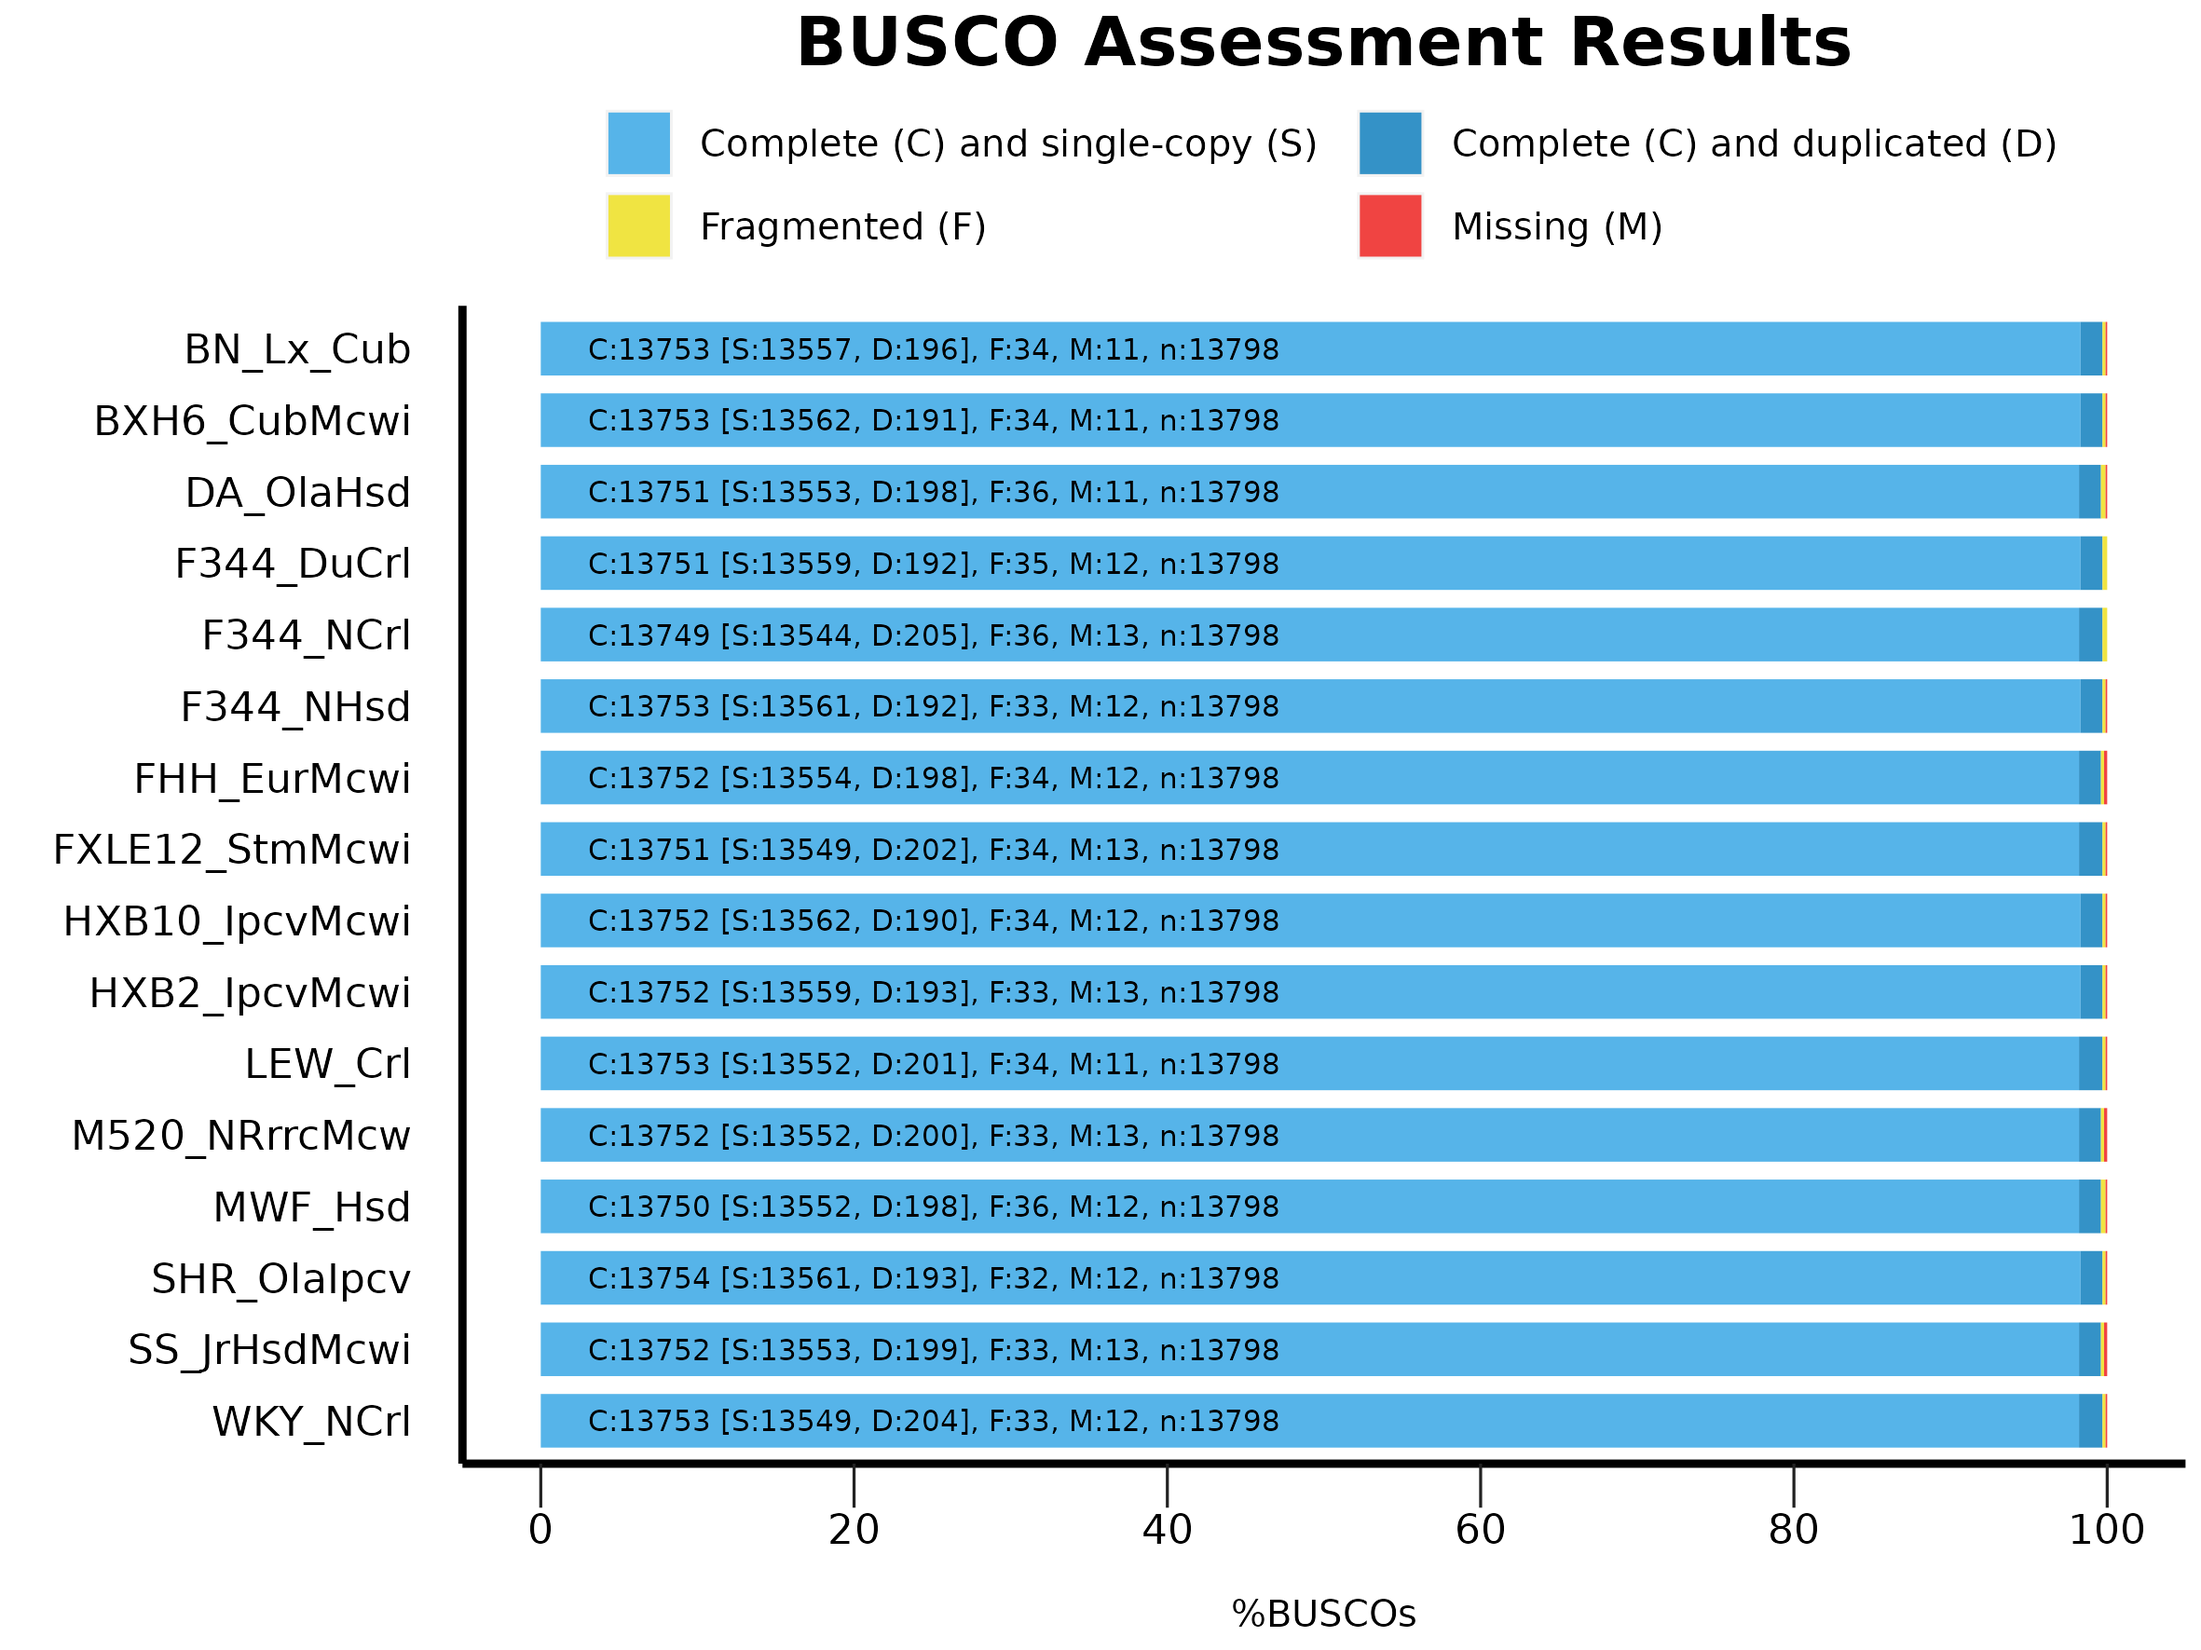
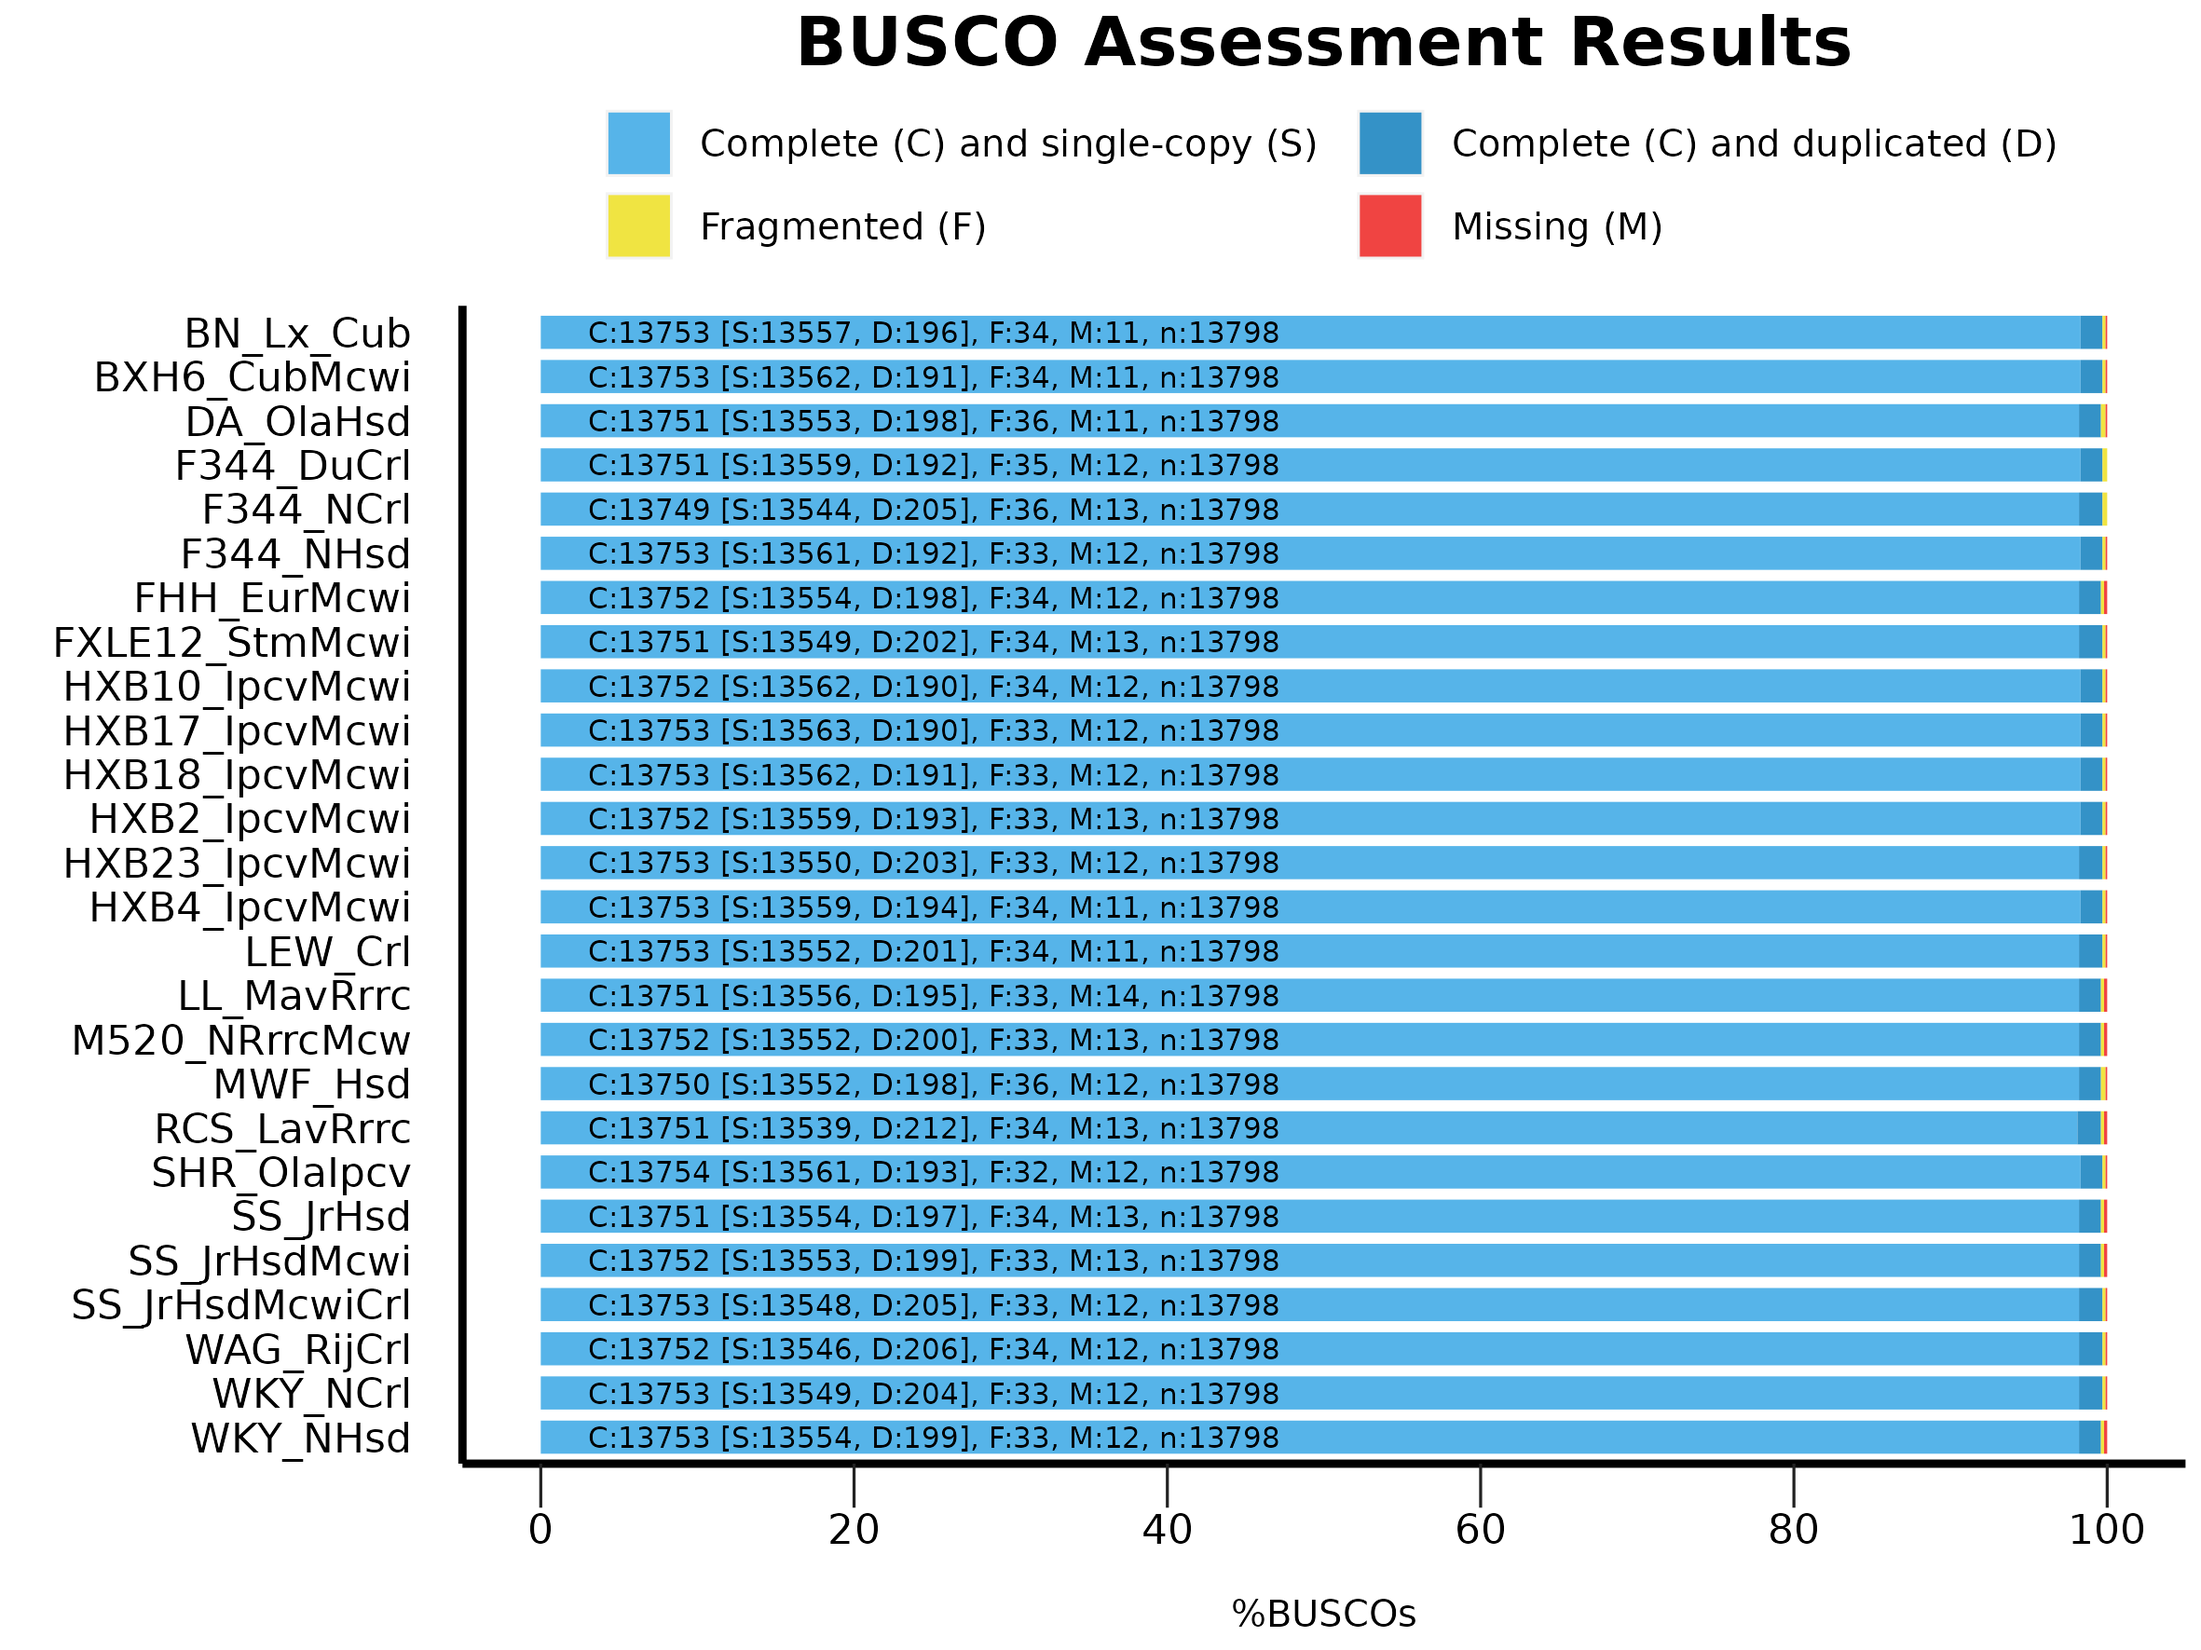
update

Changed region(s): [[0.2472, 0.1863, 0.9581, 0.9006], [0.0309, 0.1863, 0.1854, 0.9006]]

diff --git a/02.AssemblyQC.md b/02.AssemblyQC.md
@@ -6,15 +6,15 @@
 
 <div align="center">
   rn7 is 2,647,915,728 bps long
-  <img src="images/gfastats.16samples.png" alt="gfastats.merqury.16samples.png">
+  <img src="images/gfastats.26samples.png" alt="gfastats.26samples.png">
 </div>
 
 <div style="text-align: center;">
-  <img src="images/GenomeScope2vsHiFi.LengthDifference.16samples.png" alt="GenomeScope2vsHiFi.LengthDifference.16samples.png">
+  <img src="images/GenomeScope2vsHiFi.LengthDifference.26samples.png" alt="GenomeScope2vsHiFi.LengthDifference.26samples.png">
 </div>
 
 <div style="text-align: center;">
-  <img src="images/Nx.16samples.png" alt="Nx.16samples.png">
+  <img src="images/Nx.26samples+GRCr8.png" alt="Nx.26samples+GRCr8.png">
 </div>
 
 ### BUSCO (compleasm)
@@ -38,13 +38,13 @@
 ### Partitions
 
 <div align="center">
-  <img src="images/partitions.by-sample.16samples.png" alt="partitions.by-sample.16samples.png">
+  <img src="images/partitions.by-sample.26samples.png" alt="partitions.by-sample.16samples.png">
 </div>
 
 <div align="center">
-  <img src="images/partitions.by-chromosome.16samples.png" alt="partitions.by-chromosome.16samples.png">
+  <img src="images/partitions.by-chromosome.26samples.png" alt="partitions.by-chromosome.16samples.png">
 </div>
 
 <div align="center">
-  <img src="images/partitions.all-sample.16samples.png" alt="partitions.all-sample.16samples.png">
+  <img src="images/partitions.all-sample.26samples.png" alt="partitions.all-sample.16samples.png">
 </div>
